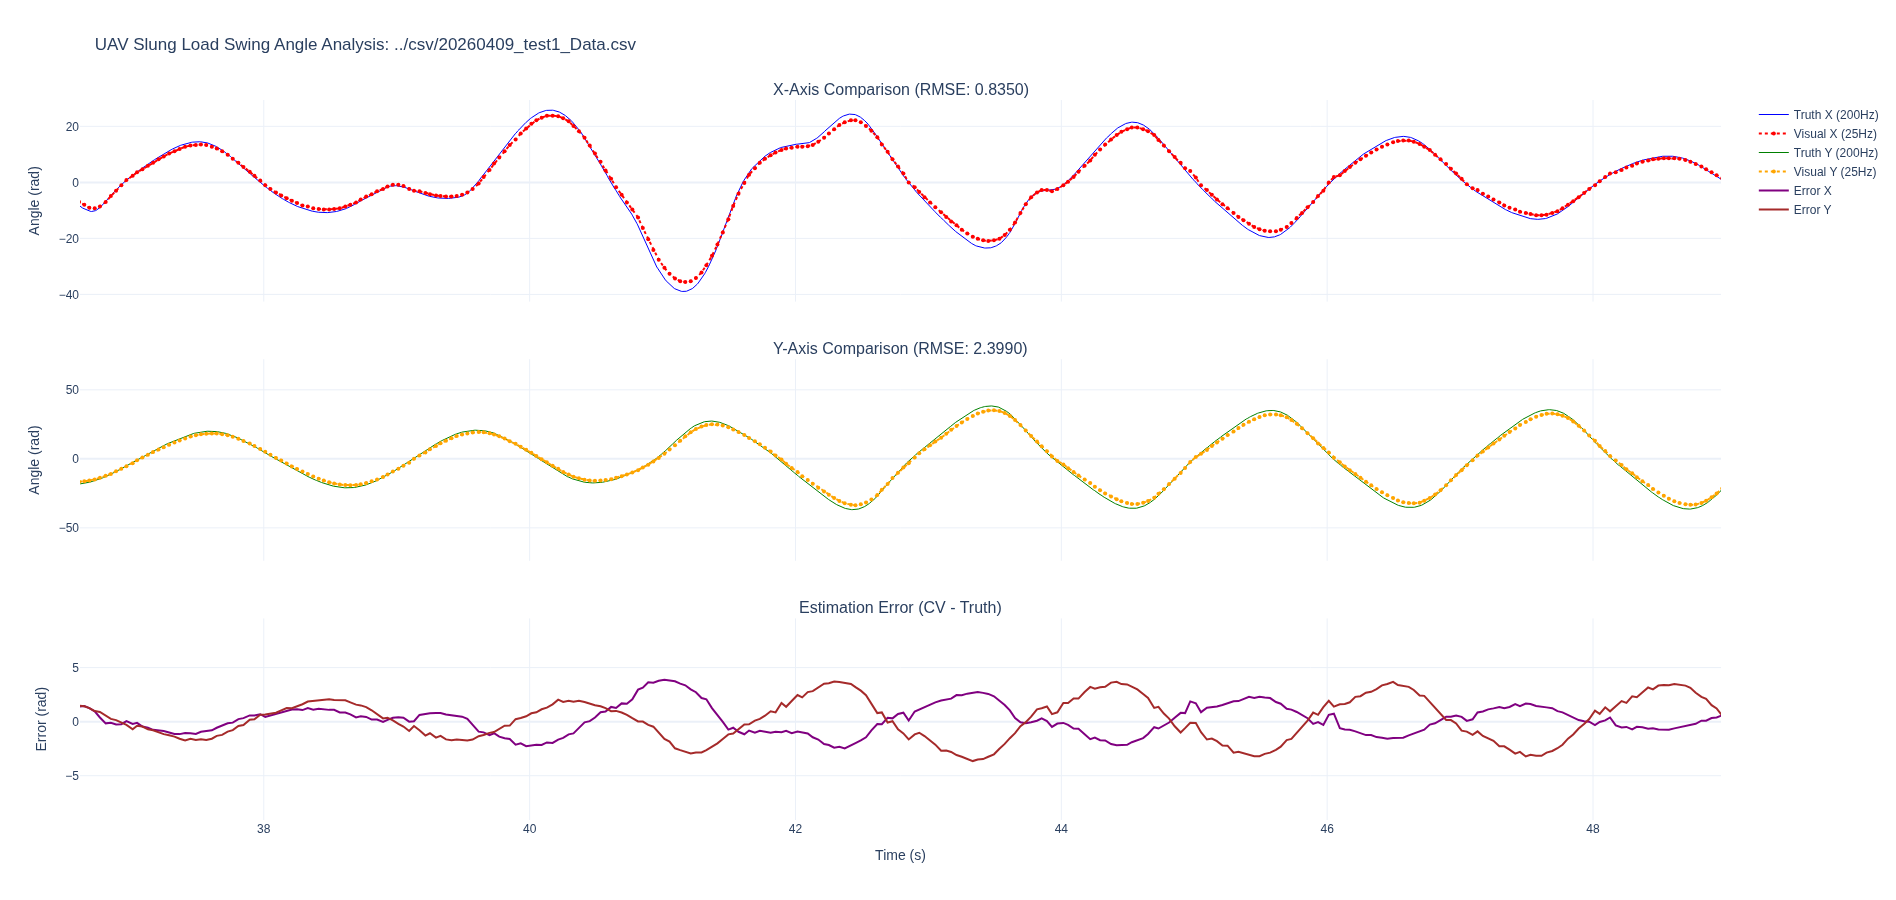
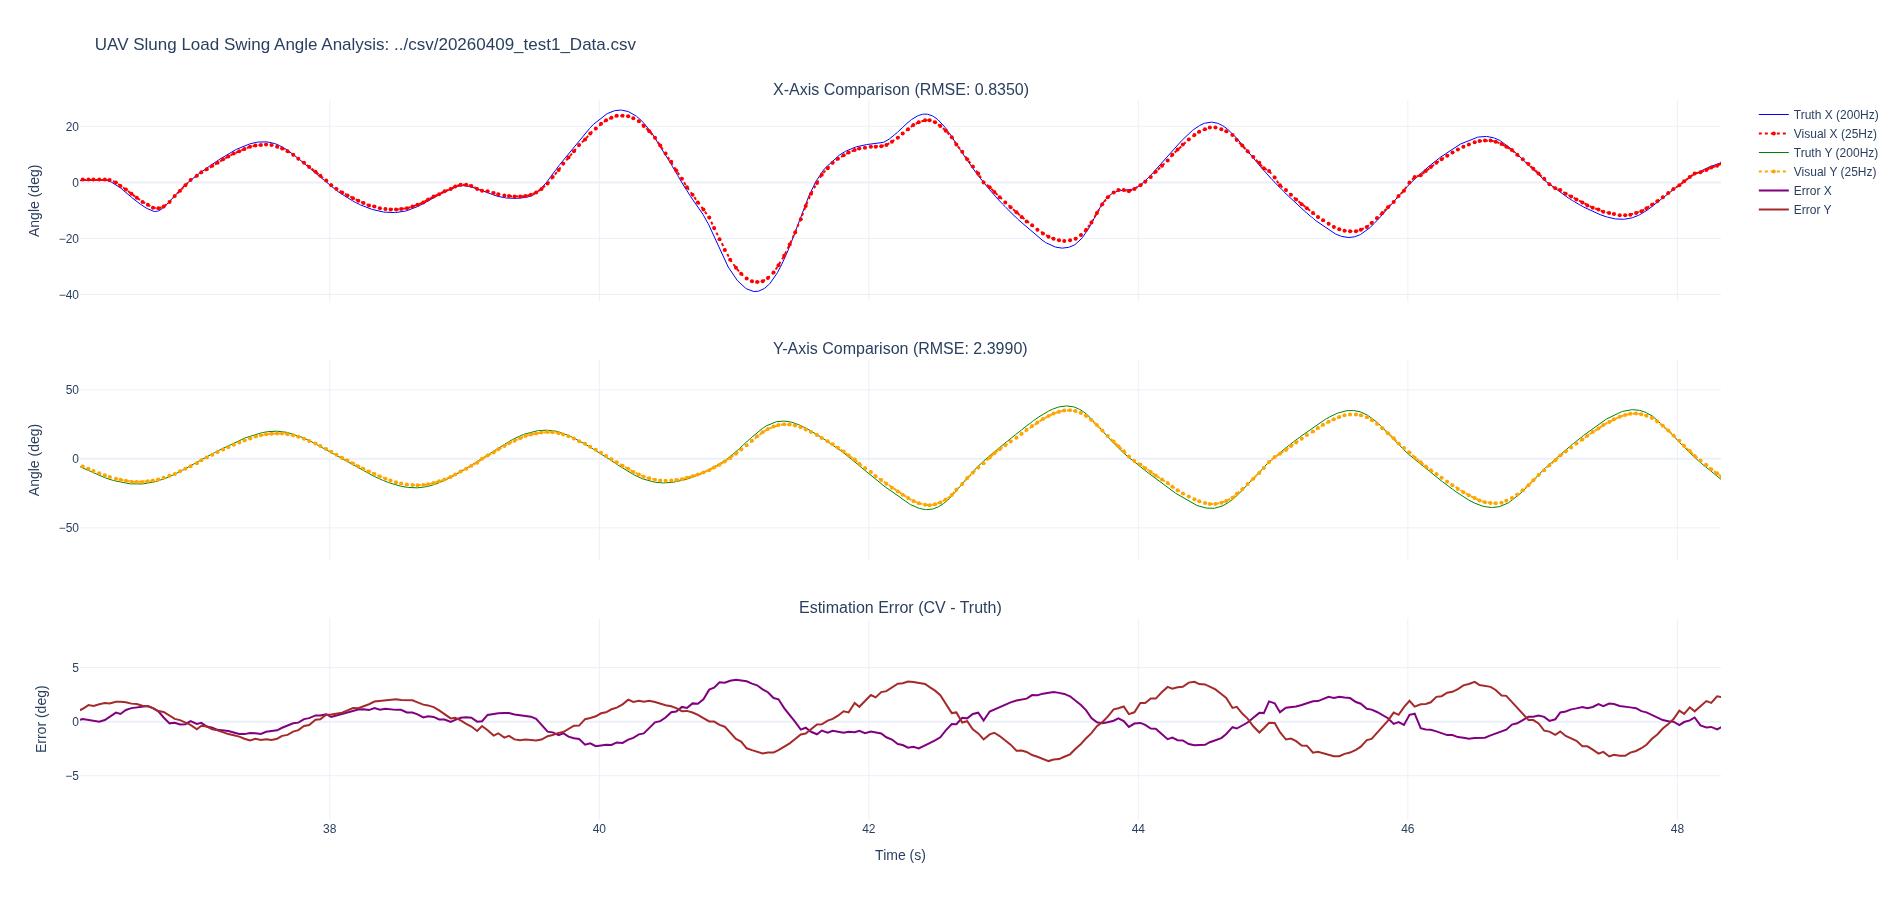
modify the unit

diff --git a/data_analysis/python/plot_analysis.py b/data_analysis/python/plot_analysis.py
@@ -7,7 +7,7 @@ import os
 # ==========================================
 # 配置区：在此修改文件名和路径
 # ==========================================
-CSV_FILE_PATH = '../csv/20260408_test1_Data.csv'  # 替换为你的文件名
+CSV_FILE_PATH = '../csv/20260409_test1_Data.csv'  # 替换为你的文件名
 START_TIME_OFFSET = 0  # 绘图起始时间偏移（秒），默认为0
 
 # ==========================================
@@ -92,9 +92,9 @@ def process_drone_data(file_path):
     )
 
     fig.update_xaxes(title_text="Time (s)", row=3, col=1)
-    fig.update_yaxes(title_text="Angle (rad)", row=1, col=1)
-    fig.update_yaxes(title_text="Angle (rad)", row=2, col=1)
-    fig.update_yaxes(title_text="Error (rad)", row=3, col=1)
+    fig.update_yaxes(title_text="Angle (deg)", row=1, col=1)
+    fig.update_yaxes(title_text="Angle (deg)", row=2, col=1)
+    fig.update_yaxes(title_text="Error (deg)", row=3, col=1)
 
     # 显示图表（在浏览器打开，支持自由缩放）
     fig.show()
